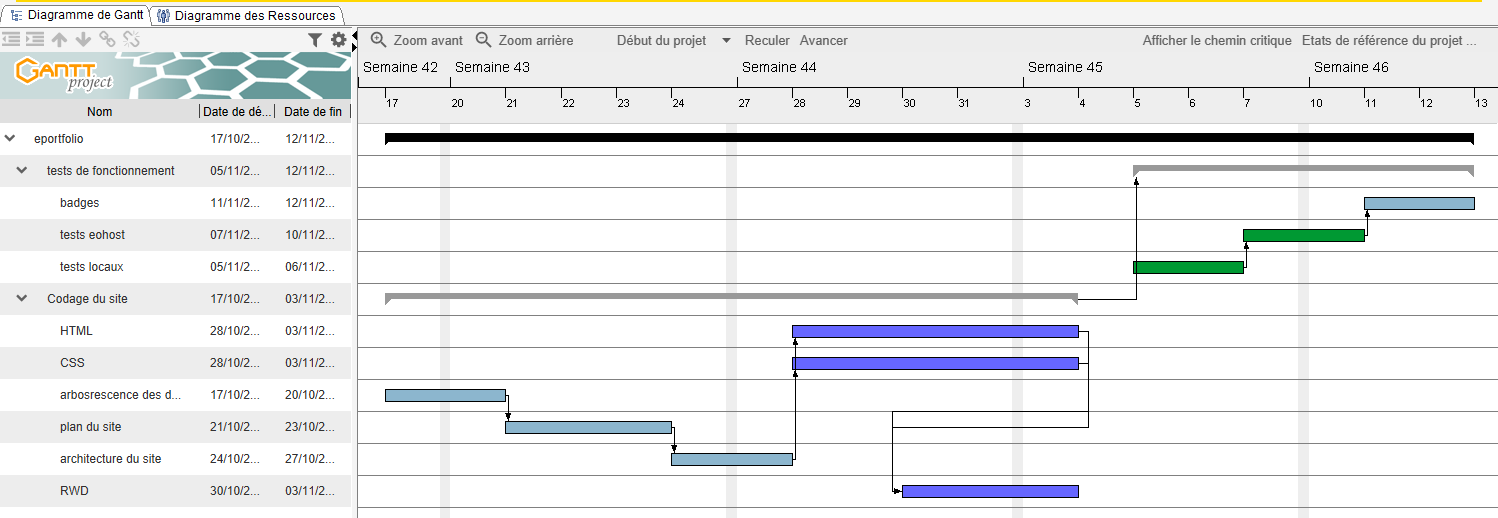
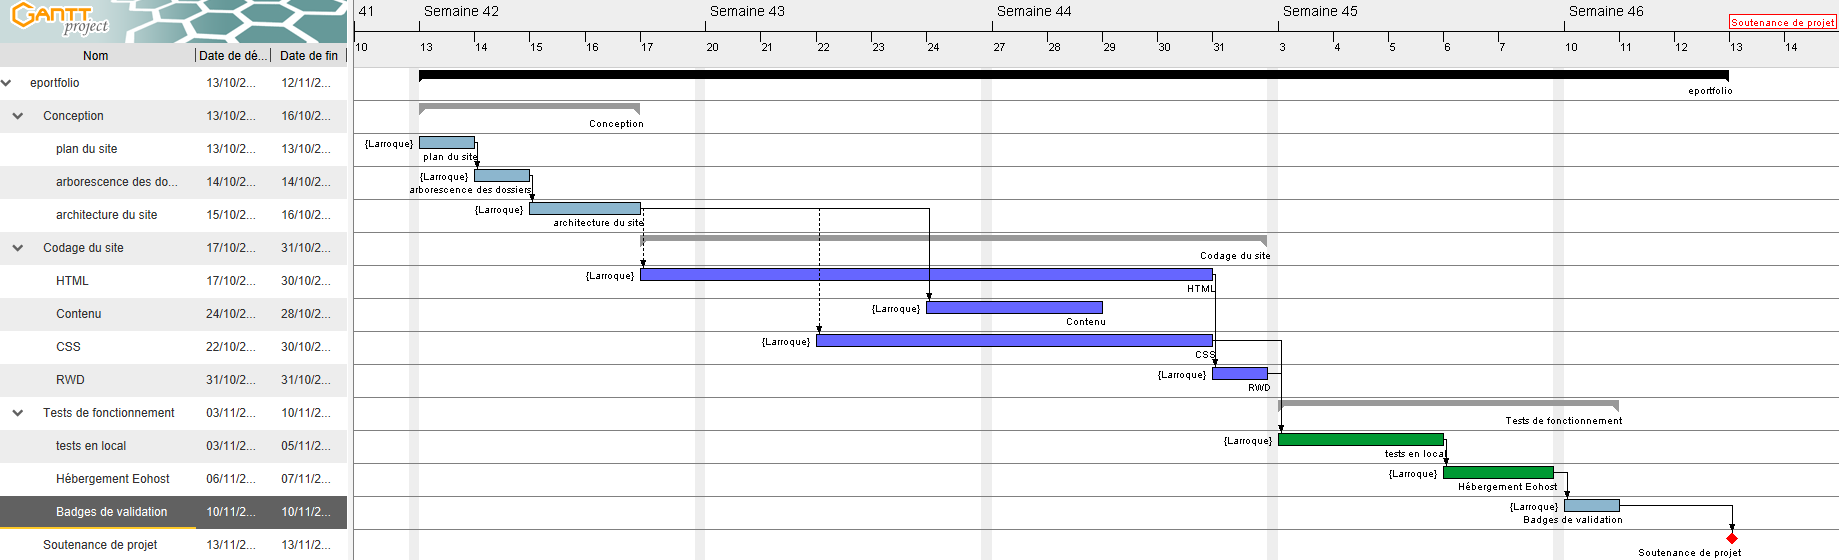
maj des livrables

diff --git a/livrables.html b/livrables.html
@@ -84,7 +84,7 @@ ePortfolio/
                         <li><a href="https://www.websiteplanet.com/fr/webtools/responsive-checker/" target="_blank" rel="noopener noreferrer">Website Planet</a></li>
                         <li><a href="https://gtmetrix.com/" target="_blank" rel="noopener noreferrer">GTMetrix</a></li>
                     </ul>
-                    <img src="images/responsive.jpg" alt="Aperçu du test Responsinator" class="image-grande" width="375" height="667" loading="lazy">
+                    <img src="images/responsive.jpg" alt="Aperçu du test Responsinator" class="image-grande" width="390" height="804" loading="lazy">
                 </section>
             </aside>
 
@@ -94,23 +94,26 @@ ePortfolio/
     <section class="livrables-pleine-largeur">
         <h2>Arborescence physique</h2>
         <p>Organisation des fichiers et dossiers :</p>
-        <img src="images/arborescence_fichiers.png" alt="Arborescence du site web" usemap="#planFichiers" class="image-carte" width="1131" height="361" loading="lazy">
-        <map name="planFichiers">
-            <area shape="rect" coords="155,5,295,55" href="index.html" alt="Accueil">
-            <area shape="rect" coords="310,5,420,55" href="eportfolio.html" alt="ePortfolio">
-            <area shape="rect" coords="435,5,565,55" href="about.html" alt="About Me">
-            <area shape="rect" coords="580,5,695,55" href="parcours.html" alt="Parcours">
-            <area shape="rect" coords="710,5,845,55" href="livrables.html" alt="Éléments livrables">
-            <area shape="rect" coords="860,5,960,55" href="contact.html" alt="Contact">
-            <area shape="rect" coords="975,5,1125,55" href="mentions_legales.html" alt="Mentions légales">
-        </map>
+        <div class="conteneur-carte">
+            <img src="images/arborescence_fichiers.png" alt="Arborescence du site web" usemap="#planFichiers" class="image-carte" width="1050" height="490" loading="lazy">
+            <map name="planFichiers">
+                <area shape="rect" coords="130,10,235,60" href="index.html" alt="Accueil">
+                <area shape="rect" coords="245,10,350,60" href="eportfolio.html" alt="ePortfolio">
+                <area shape="rect" coords="360,10,465,60" href="about.html" alt="About Me">
+                <area shape="rect" coords="475,10,580,60" href="parcours.html" alt="Parcours">
+                <area shape="rect" coords="590,10,695,60" href="livrables.html" alt="Éléments livrables">
+                <area shape="rect" coords="705,10,810,60" href="contact.html" alt="Contact">
+                <area shape="rect" coords="820,10,925,60" href="mentions_legales.html" alt="Mentions légales">
+                <area shape="rect" coords="935,10,1040,60" href="404.html" alt="Page 404">
+            </map>
+        </div>
         <p><em>Survolez les zones puis cliquez pour accéder aux pages <strong>HTML</strong>.</em></p>
     </section>
 
     <section class="livrables-pleine-largeur">
         <h2>Gestion de projet</h2>
         <p>Suivi réalisé avec un <strong>diagramme de Gantt</strong> :</p>
-        <img src="images/gantt.png" alt="Diagramme de Gantt" class="image-grande gantt" width="1498" height="518" loading="lazy">
+        <img src="images/gantt.png" alt="Diagramme de Gantt" class="image-grande gantt" width="1839" height="560" loading="lazy">
     </section>
 
     <footer class="d-flex align-items-center justify-content-center flex-wrap text-center">

diff --git a/css/style.css b/css/style.css
@@ -194,8 +194,12 @@ section h3 {
   box-shadow: 0 6px 20px rgba(0,0,0,0.5);
 }
 
+.conteneur-carte {
+  overflow-x: auto;
+}
+
 .image-carte {
-  max-width: 100%;
+  max-width: none;
   margin: 1rem auto;
   border-radius: 10px;
   box-shadow: 0 6px 15px rgba(0,0,0,0.4);
